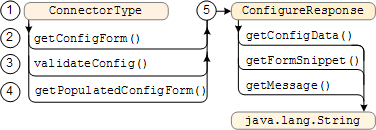
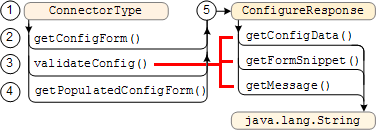
Continuing to add review comments from John.

Changed region(s): [[0.4096, 0.2769, 0.6436, 0.6769]]

diff --git a/devguide/2.4.0/cdg_spioverview.html b/devguide/2.4.0/cdg_spioverview.html
@@ -47,7 +47,7 @@ Posted December 2009</p>
 <li><a href="#pti">Property Interface</a></li>
 </ol>
 </li>
-<li><a href="#Value">Value Interface</a></li>
+<li><a href="#Value">Value Class</a></li>
   <li><a href="#conTypint">ConnectorType Interface and SimpleConnectorType Class</a>
     <ol>
 <li><a href="#cti">ConnectorType Interface</a></li>
@@ -111,7 +111,7 @@ Posted December 2009</p>
     <p>The connector manager  calls the <code>startTraversal</code> method to start acquiring documents from the content management system. The connector manager receives a list of documents from the <code>startTraversal</code> method. </p>
   </li>
   <li>Traverse over the documents in the <code>DocumentList</code>.  
-    <p>The connector manager calls the <code>nextDocument</code> method to get another document.. Each <code>Document</code> returned is fed to the search appliance.  The connector sets the return value of the <code>DocumentList</code> object to instruct the connector manager what to do next. A <code>null</code> return value indicates that traversal is done, An empty return value indicates to set the checkpoint and keep traversing, and documents in the <code>DocumentList</code> indicate to send the documents to the search appliance. </p>
+    <p>The connector manager calls the <code>nextDocument</code> method to get another document.. Each <code>Document</code> returned is fed to the search appliance.  The connector sets the return value of the <code>DocumentList</code> object to instruct the connector manager what to do next. A <code>null</code> return value indicates that traversal is done, An empty return value indicates to set the checkpoint and keep traversing, and documents in the <code>DocumentList</code> indicates to send the documents to the search appliance. </p>
   </li>
   <li>Pauses traversing to perform other tasks.
     <p>The connector sets the checkpoint after every batch of documents. The checkpoint helps the connector remember where within the content management system the traversal was paused, so that the connector may resume at that point in the future.</p>
@@ -158,13 +158,13 @@ Posted December 2009</p>
 <p class="backtotop"><a href="#top">Back to top</a></p>
 
 
-<h2><a name="Value"></a>Value Interface </h2>
+<h2><a name="Value"></a>Value Class </h2>
 <p>The <code>Value</code> objects are used to provide property values from the connector to the connector manager as returned from calls to the <code>Property.nextValue</code> method. </p>
-<p>The <code>Value</code> interface provides factory methods for constructing <code>Value</code> objects for various data types. </p>
+<p>The <code>Value</code> class provides factory methods for constructing <code>Value</code> objects for various data types. </p>
 <p>A connector cannot implement its own <code>Value</code> class or even subclass the one provided  (unlike most of the other interfaces, for which a connector must provide an implementation).</p>
 <p>The methods in the <code>Value</code> class   are as follows:</p>
 <p><img src="images/cdg_value_interface.png" alt="Value interface" width="326" height="219" /></p>
-<p>The <code>Value</code> interface provides conversion methods for numeric and string values. For more information on the <code>Calendar</code> object formats, see <a href="ftp://ftp.rfc-editor.org/in-notes/rfc822.txt">RFC 822</a> and <a href="http://www.w3.org/TR/NOTE-datetime">Date and Time Formats</a>, which describes <acronym title="International Organization for Standardization">ISO</acronym> 8601.</p>
+<p>The <code>Value</code> class provides conversion methods for numeric and string values. For more information on the <code>Calendar</code> object formats, see <a href="ftp://ftp.rfc-editor.org/in-notes/rfc822.txt">RFC 822</a> and <a href="http://www.w3.org/TR/NOTE-datetime">Date and Time Formats</a>, which describes <acronym title="International Organization for Standardization">ISO</acronym> 8601.</p>
 <p class="backtotop"><a href="#top">Back to top</a></p>
 
 <h2><a name="conTypint"></a>ConnectorType Interface and SimpleConnectorType Class </h2>
@@ -176,7 +176,7 @@ Posted December 2009</p>
 <ol>
   <li>Spring Framework creates the <code>ConnectorType</code> object using the parameters in the <code>connectorType.xml</code> file. </li>
   <li>The connector manager calls the <code>getConfigForm</code> method to provide an XHTML configuration form  in which an administrator can specify connector parameter values in the Admin Console. </li>
-  <li>After an administrator fills in the configuration form and clicks <strong>Submit</strong>, the connector manager calls the <code>validateConfig</code> method to verify the form information. The <code>validateConfig</code> method can also call the <code>ConnectorFactory</code> class to instantiate a connector and verify that the connector instance can communicate with the content management system. If validation fails, the <code>validateConfig</code> method adds a message to the configuration form for the administrator to correct the form information. </li>
+  <li>After an administrator fills in the configuration form and clicks <strong>Submit</strong>, the connector manager calls the <code>validateConfig</code> method to verify the form information. The <code>validateConfig</code> method can also call the <code>ConnectorFactory</code> class to instantiate a connector and verify that the connector instance can communicate with the content management system. If validation fails, the <code>validateConfig</code> method adds a message to the configuration form for the administrator to correct the form information. The <code>getConfigData</code>, <code>getFormSnippet</code>, and <code>getMessage</code> methods only work with <code>validateConfig</code> as indicated by the red line in the illustration.</li>
   <li>To change configuration form information, the administrator clicks <strong>Edit</strong> for a connector in the Admin Console and the connector manager calls the <code>getPopulatedConfigForm</code> method to retrieve stored information and create an XHTML form with the information. </li>
   <li>Each method returns a <code>ConfigureResponse</code> object that can contain a configuration form and an optional message to display on the Admin Console if corrections are needed.</li>
 </ol>

diff --git a/devguide/2.4.0/cdg_traversing.html b/devguide/2.4.0/cdg_traversing.html
@@ -16,7 +16,7 @@ Connector manager
 Posted December 2009</p>
 <p>Traversing means acquiring documents from a content management system that the connector manager feeds to a Google Search Appliance. 
 Traversing is analogous to the search appliance concept of crawling.</p>
-<p><strong>Chapters</strong>: <a href="cdg_about.html">About This Guide</a>, <a href="cdg_intro.html">Introduction</a>, <a href="cdg_getstart.html">Getting Started</a>, <a href="cdg_spioverview.html">SPI Overview</a>, <em>Traversing Documents</em>, <br />
+<p><strong>Chapters</strong>: <a href="index.html">Home</a>, <a href="cdg_about.html">About This Guide</a>, <a href="cdg_intro.html">Introduction</a>, <a href="cdg_getstart.html">Getting Started</a>, <a href="cdg_spioverview.html">SPI Overview</a>, <em>Traversing Documents</em>, <br />
 <a href="cdg_authentication.html">Authentication</a>, <a href="cdg_authorization.html">Authorization</a>, <a href="cdg_config.html">Configuration</a>, <a href="cdg_buildcm.html">Appendix A: Building a Debug Connector Manager</a></p>
 <h2>Contents</h2>
 <ol class="toc">
@@ -86,8 +86,8 @@ Traversing is analogous to the search appliance concept of crawling.</p>
 </ol>
 <p>A connector controls traversal by setting the return value of the <code>DocumentList</code> interface:</p>
 <ul>
-  <li><code>null</code> - Stop traversing, all documents are traversed. Wait 5 minutes before asking the content management system for updated documents.</li>
-  <li><code>DocumentList</code> containing zero documents  - Temporarily stop traversing, set a progress checkpoint, and  resume traversing.  </li>
+  <li><code>null</code> - Stop traversing, all documents are traversed. Wait 15 minutes before asking the content management system for updated documents.</li>
+  <li><code>DocumentList</code> containing zero documents  - Set a progress checkpoint and  resume traversing.  </li>
   <li><code>DocumentList</code> (non-empty) - Send documents in the <code>DocumentList</code> to the search appliance. </li>
 </ul>
 <p>For more information on <code>DocumentList</code> return values and document traversing exceptions, see <a href="IteratingOverADocumentList">Iterating Over a Document List</a>.</p>
@@ -115,7 +115,7 @@ Traversing is analogous to the search appliance concept of crawling.</p>
   <li>The <code>resumeTraversal</code> method of the connector instance to resume traversing at the  document indicated by the <code>checkpoint</code> method.</li>
 </ol>
 <h2><a name="BuildingADocumentList"></a>Acquiring Documents</h2>
-<p>The following code example provides a sample <code>TraversalManager</code> implementation. The  code  declares the class, specifies 500 documents for the fake content management system, and  sets the batch hint so that the connector can traverse up to 100 documents a minute from the content management system.</p>
+<p>The following code example provides a sample <code>TraversalManager</code> implementation. The  code  declares the class, specifies 500 documents for the fake content management system.</p>
 <pre>
 public class MockTraversalManager implements TraversalManager {
   // The maximum number of documents in our fake repository.
@@ -173,7 +173,7 @@ calls when it's ready to acquire more documents.</p>
   </tr>
   <tr>
     <td><code>null</code></td>
-    <td>Informs the connector manager that there are no new documents in the content management system to traverse. The connector manager then waits 5 minutes before calling the <code>resumeTraversal</code> method to check the content management system for new documents to traverse.</td>
+    <td>Informs the connector manager that there are no new documents in the content management system to traverse. The connector manager then waits 15 minutes before calling the <code>resumeTraversal</code> method to check the content management system for new documents to traverse.</td>
   </tr>
   <tr>
     <td>Zero documents (empty) </td>
@@ -190,7 +190,7 @@ calls when it's ready to acquire more documents.</p>
 <p>The connector manager may not acquire all documents from the content management system. The connector manager may interrupt the traversal of documents, call the <code>checkpoint</code> method, and start another task. When the connector manager is again ready to start traversing the content management system, the connector manager calls the <code>resumeTraversal</code> method and passes  the <code>checkpoint</code> method to provide the current position. </p>
 <p>Connectors have these exceptions for documents:</p>
 <ul>
-  <li><code>RepositoryException</code>. A transient error occurred while traversing a document, such as a lost connection to the content management system. The connector needs to reread the document. The connector manager waits 5 minutes before resuming traversal. </li>
+  <li><code>RepositoryException</code>. A transient error occurred while traversing a document, such as a lost connection to the content management system. The connector needs to reread the document. The connector manager waits 15 minutes and retries the same batch before resuming traversal. </li>
   <li><code>RepositoryDocumentException</code>. A document has an error and cannot be retrieved. Skip the document.</li>
   <li><code>OutofMemoryError</code>. A document is too large to be traversed. Skip the document. </li>
 </ul>

diff --git a/devguide/2.4.0/cdg_getstart.html b/devguide/2.4.0/cdg_getstart.html
@@ -149,7 +149,7 @@ Windows XP:
 <li>Right click <strong>My Computer</strong> and click <strong>Properties</strong>.</li>
 <li> Click the <strong>Advanced</strong> tab and click <strong>Environment Variables</strong>. The Environment Variables menu appears. </li>
 <li>In <strong>System variables</strong>, click <strong>New</strong>. The New System Variable menu appears.</li>
-<li>Type <code>CATALINA_HOME</code> for the <strong>Variable name</strong> and the enter the path to the Tomcat download folder, for example, <code>c:\apache-tomcat-6.0.20\</code> as the <strong>Variable value</strong>. </li>
+<li>Type <code>CATALINA_HOME</code> for the <strong>Variable name</strong> and the enter the path to the Tomcat download folder, for example, <code>c:\apache-tomcat-6.0.18\</code> as the <strong>Variable value</strong>. </li>
 <li>Click <strong>OK</strong> to complete the variable, <strong>OK</strong> to exit  Environment Variables, and <strong>OK</strong> to exit System Properties.</li>
 </ol>
 <br>Linux and Macintosh:
@@ -194,11 +194,11 @@ Or from your <code>~/.bashrc</code> file: <br />
       </tr>
       <tr>
         <td>Linux or Macintosh</td>
-        <td><a href="http://google-enterprise-connector-manager.googlecode.com/files/connector-manager-2.0.0.tar.gz">connector-manager-2.0.0.tar.gz</a></td>
+        <td><a href="http://google-enterprise-connector-manager.googlecode.com/files/connector-manager-2.4.0.tar.gz">connector-manager-2.4.0.tar.gz</a></td>
       </tr>
       <tr>
         <td>Windows</td>
-        <td><a href="http://google-enterprise-connector-manager.googlecode.com/files/connector-manager-2.0.0.zip">connector-manager-2.0.0.zip</a></td>
+        <td><a href="http://google-enterprise-connector-manager.googlecode.com/files/connector-manager-2.4.0.zip">connector-manager-2.4.0.zip</a></td>
       </tr>
     </table>
   </li>
@@ -212,7 +212,7 @@ Or from your <code>~/.bashrc</code> file: <br />
 <p>The instructions that follow are  for a Windows system, if you are using a Linux or Macintosh, refer to your operating system documentation for how to open a <code>.tar</code> file, and how to extract, copy, and rename files. </p>
 <p>To extract the <code>connector-spi.jar</code> file: </p>
 <ol>
-  <li>Open the folder labeled <code>connector-manager-2.0.0</code>. </li>
+  <li>Open the folder labeled <code>connector-manager-2.4.0</code>. </li>
   <li>Copy or extract the <code>connector-manager.war</code> file and store it in a folder on your computer. </li>
   <li>Copy the <code>connector-manager.war</code> file so that you have two copies of the same file.  </li>
   <li>Rename one of the copies of the <code>connector-manager.war</code> file to be <code>connector-manager.zip</code>. </li>
@@ -378,7 +378,7 @@ Wait approximately 30 seconds to ensure that Tomcat stops. You can check that th
     </ul>
   </li>
   <li>Test Tomcat. 
-    <p>After Tomcat starts, verify that the server is running by clicking this link: <a href="http://127.0.0.1:8080/connector-manager/testConnectivity">http://127.0.0.1:8080/connector-manager/testConnectivity</a> or by typing this address into a browser. This link verifies that the connector manager is running and displays the connector manager version, Java version, and the operating system version.</p>
+    <p>After Tomcat starts, verify that the server is running by clicking this link: <a href="http://127.0.0.1:8080/connector-manager/testConnectivity">http://127.0.0.1:8080/connector-manager/testConnectivity</a> or by typing this address into a browser. This link verifies that the connector manager is running and displays the connector manager version, Java version,  the operating system version, and the IP address of the search appliance.</p>
   </li>
   </ol>
 
@@ -629,10 +629,10 @@ private DocumentList traverse(String checkpoint) {
     return null;  // No more documents.
   }
   Calendar cal = Calendar.getInstance();
-  cal.setTimeInMillis(10 * 1000);
   List&lt;Document&gt; docList = new ArrayList&lt;Document&gt;(batchHint);
   int endDocId = Math.min(startDocId + batchHint - 1, MAX_DOCID);
   for (int i = startDocId; i &lt;= endDocId; i++) {
+    cal.setTimeInMillis(10 * 1000); // Each doc has the current timestamp
     Map&lt;String, List&lt;Value&gt;&gt;properties;
     properties = new HashMap&lt;String, List&lt;Value&gt;&gt;();
     properties.put(SpiConstants.PROPNAME_DOCID,
@@ -691,8 +691,7 @@ class HelloWorldDocumentList implements DocumentList {
   public AuthenticationResponse authenticate(AuthenticationIdentity id) {
     return new AuthenticationResponse(true, null);
   }
-}
-</pre>
+}</pre>
 
 <a id="HloAuthZMgrClass"
  name="HloAuthZMgrClass"></a>

diff --git a/devguide/2.4.0/cdg_intro.html b/devguide/2.4.0/cdg_intro.html
@@ -232,7 +232,7 @@ describe connector components. </p>
 <ul>
   <li><code>connectorType.xml</code>,  <code>connectorInstance.xml</code>, and <code>connectorDefaults.xml</code> are Java Bean definition files.</li>
 <li><code>connectorType.xml</code> and <code>connectorDefaults.xml</code> are invariant across   all connector instances of that type, such that all connector   instances derive information from a common <code>connectorType.xml</code> and   <code>connectorDefaults.xml</code>.</li>
-<li><code>connectorInstance.xml</code> and <code><em>ConnectorName</em>.properties</code> file may contain   configuration information that is unique to each connector instance.   This information  distinguishes one connector instance   from another.</li>
+<li><code>connectorInstance.xml</code> and <em>ConnectorName</em><code>.properties</code> file may contain   configuration information that is unique to each connector instance.   This information  distinguishes one connector instance   from another.</li>
 </ul>
 
 <a name="SpringFrameworkInstantiatesaConnector" id="SpringFrameworkInstantiatesaConnector"></a>
@@ -269,7 +269,7 @@ to provide properties to the connector manager.
   For example, a properties file contains a user name and password, the name of a repository,  
   the basis of the display URL, and other values. The properties file contains the values  
   that correspond to each field in the configuration form, plus  additional values used by the connector manager.</p>
-<p>Spring Framework injects the properties file, the defaults information (if present), and the information in the <code>connectorInstance.xml</code> file into the bean, which Spring Framework uses to create a connector instance. </p>
+<p>Spring Framework injects the properties, the defaults  (if present), and the information in the <code>connectorInstance.xml</code> file into the bean, which Spring Framework uses to create a connector instance. </p>
 
 <p>Spring Framework:</p> 
 <ol>
@@ -317,7 +317,7 @@ to provide properties to the connector manager.
     <li>The connector manager  routes the request to the proper connector type. </li>
     <li>The connector manager  calls the <code>ConnectorType.validateConfig</code> method to ensure that all required information is present. The <code>validateConfig</code> method can also test a connection to the content management system using the <code>ConnectorFactory</code> class to call Spring Framework to create a connector instance to verify that the connector can communicate with the content management system. A connector can also change properties as needed in the <code>validateConfig</code> method. </li>
     <li>If the <code>validateConfig</code> method fails, the connector returns a <code>ConfigureResponse</code> object that contains the XHTML form and a message to inform the administrator what corrections to make in the form. After the administrator fills in the information, this sequence repeats until the administrator specifies correct information.</li>
-    <li>If the <code>validateConfig</code> method succeeds, the connector manager stores property information in the <code><em>connector_name</em>.properties</code> file. The connector manager also creates a connector instance and sends acknowledgment to the search appliance. </li>
+    <li>If the <code>validateConfig</code> method succeeds, the connector manager stores property information in the <em>ConnectorName</em><code>.properties</code> file. The connector manager also creates a connector instance and sends acknowledgment to the search appliance. </li>
     <li>The search appliance displays the connector entry in the Admin Console at  <strong>Connector Administration</strong> &gt; <strong>Connectors</strong> &gt; <strong>List of Connectors</strong>.</li>
   </ol>
   <p class="backtotop"><a href="#top">Back to top</a></p>

diff --git a/devguide/2.4.0/cdg_authorization.html b/devguide/2.4.0/cdg_authorization.html
@@ -16,7 +16,7 @@ Posted December 2009</p>
 <p>Authorization  determines if a user can view controlled-access documents in a content management system. After a user is successfully authenticated, the connector determines what documents  the content management system authorizes the user to view. For connector terminology definitions, see the <a href="http://code.google.com/apis/searchappliance/documentation/62/reference/glossary.html">Google Enterprise Glossary</a>.  For information on controlled-access content, see <a href="http://code.google.com/apis/searchappliance/documentation/access.html">Managing Search for Controlled-Access Content</a>. </p>
 <p>This section describes how to authorize users for viewing secure documents in a connector. The <a href="http://google-enterprise-connector-manager.googlecode.com/svn/docs/javadoc/2.0.0/index.html">Javadoc</a> for the SPI is available in open source. For additional information, see <a href="cdg_intro.html#TraversalSecurity">Understanding Authentication and Authorization</a>.</p>
 
-<p><strong>Chapters</strong>: <a href="cdg_about.html">About This Guide</a>, <a href="cdg_intro.html">Introduction</a>, <a href="cdg_getstart.html">Getting Started</a>, <a href="cdg_spioverview.html">SPI Overview</a>, <a href="cdg_traversing.html">Traversing Documents</a>, <br />
+<p><strong>Chapters</strong>: <a href="index.html">Home</a>, <a href="cdg_about.html">About This Guide</a>, <a href="cdg_intro.html">Introduction</a>, <a href="cdg_getstart.html">Getting Started</a>, <a href="cdg_spioverview.html">SPI Overview</a>, <a href="cdg_traversing.html">Traversing Documents</a>, <br />
 <a href="cdg_authentication.html">Authentication</a>, <em>Authorization</em>, <a href="cdg_config.html">Configuration</a>, <a href="cdg_buildcm.html">Appendix A: Building a Debug Connector Manager</a></p>
 
 <h2>Contents</h2>

diff --git a/devguide/2.4.0/cdg_buildcm.html b/devguide/2.4.0/cdg_buildcm.html
@@ -15,7 +15,7 @@ Connector manager version 2.4.0<br />
 Posted December 2009</p>
 <p>This section describes how to build a debug connector manager and to build Javadoc. This section is useful if you need to extend the functionality of the connector manager, or want to use the test connectors supplied with the connector manager. You may find that the information in the <a href="cdg_getstart.html">Getting Started</a> section provides enough background information to get you started and to test connectors. </p><p>For connector terminology definitions, see the <a href="http://code.google.com/apis/searchappliance/documentation/62/reference/glossary.html">Google Enterprise Glossary</a>. </p>
 
-<p><strong>Chapters</strong>: <a href="cdg_about.html">About This Guide</a>, <a href="cdg_intro.html">Introduction</a>, <a href="cdg_getstart.html">Getting Started</a>, <a href="cdg_spioverview.html">SPI Overview</a>, <a href="cdg_traversing.html">Traversing Documents</a>, <br />
+<p><strong>Chapters</strong>: <a href="index.html">Home</a>, <a href="cdg_about.html">About This Guide</a>, <a href="cdg_intro.html">Introduction</a>, <a href="cdg_getstart.html">Getting Started</a>, <a href="cdg_spioverview.html">SPI Overview</a>, <a href="cdg_traversing.html">Traversing Documents</a>, <br />
 <a href="cdg_authentication.html">Authentication</a>, <a href="cdg_authorization.html">Authorization</a>, <a href="cdg_config.html">Configuration</a>, <em>Appendix A: Building a Debug Connector Manager</em></p>
 
 <h2>Contents</h2>
@@ -174,7 +174,7 @@ ant spi-javadoc
 </li>
 <li>Change directory to the <code>spi</code> folder using the following command: 
 <pre>
-cd doc/javadoc/2.0/spi
+cd doc/javadoc/2.0.0/spi
 </pre>
 </li>
 <li>Double-click the <code>index.html</code> file to view the Javadocs. </li>

diff --git a/devguide/2.4.0/cdg_config.html b/devguide/2.4.0/cdg_config.html
@@ -16,7 +16,7 @@ Posted December 2009</p>
 <p>This section describes how a connector provides a configuration form to the Admin Console, how connectors are instantiated, and about the properties file that contains information from the configuration form. The connector manager uses the properties file information when instantiating a connector. </p>
 <p>This section helps you  create  a configuration form for the Admin Console, verify that required information is filled in, and if necessary return the form to the Admin Console.   The <a href="http://google-enterprise-connector-manager.googlecode.com/svn/docs/javadoc/2.0.0/index.html">Javadoc</a> for the <acronym title="Service Provider Interface">SPI</acronym> is available in open source. For connector terminology definitions, see the <a href="http://code.google.com/apis/searchappliance/documentation/62/reference/glossary.html">Google Enterprise Glossary</a>. </p>
 
-<p><strong>Chapters</strong>: <a href="cdg_about.html">About This Guide</a>, <a href="cdg_intro.html">Introduction</a>, <a href="cdg_getstart.html">Getting Started</a>, <a href="cdg_spioverview.html">SPI Overview</a>, <a href="cdg_traversing.html">Traversing Documents</a>, <br />
+<p><strong>Chapters</strong>: <a href="index.html">Home</a>, <a href="cdg_about.html">About This Guide</a>, <a href="cdg_intro.html">Introduction</a>, <a href="cdg_getstart.html">Getting Started</a>, <a href="cdg_spioverview.html">SPI Overview</a>, <a href="cdg_traversing.html">Traversing Documents</a>, <br />
 <a href="cdg_authentication.html">Authentication</a>, <a href="cdg_authorization.html">Authorization</a>, <em>Configuration</em>, <a href="cdg_buildcm.html">Appendix A: Building a Debug Connector Manager</a></p>
 
 <h2>Contents</h2>

diff --git a/devguide/2.4.0/cdg_authentication.html b/devguide/2.4.0/cdg_authentication.html
@@ -16,7 +16,7 @@ Posted December 2009</p>
 <p>The connector manager uses authentication when a user searches for secured access documents. The content management system prompts users for their user name and password before granting access to view the documents. </p>
 <p>This section describes how to authenticate  users to view secure documents. For connector terminology definitions, see the <a href="http://code.google.com/apis/searchappliance/documentation/62/reference/glossary.html">Google Enterprise Glossary</a>. The <a href="http://google-enterprise-connector-manager.googlecode.com/svn/docs/javadoc/2.0.0/index.html">Javadoc</a> for the SPI is available in open source. For additional information, see <a href="cdg_intro.html#TraversalSecurity">Understanding Authentication and Authorization</a>.</p>
 
-<p><strong>Chapters</strong>: <a href="cdg_about.html">About This Guide</a>, <a href="cdg_intro.html">Introduction</a>, <a href="cdg_getstart.html">Getting Started</a>, <a href="cdg_spioverview.html">SPI Overview</a>, <a href="cdg_traversing.html">Traversing Documents</a>, <br />
+<p><strong>Chapters</strong>: <a href="index.html">Home</a>, <a href="cdg_about.html">About This Guide</a>, <a href="cdg_intro.html">Introduction</a>, <a href="cdg_getstart.html">Getting Started</a>, <a href="cdg_spioverview.html">SPI Overview</a>, <a href="cdg_traversing.html">Traversing Documents</a>, <br />
 <em>Authentication</em>, <a href="cdg_authorization.html">Authorization</a>, <a href="cdg_config.html">Configuration</a>, <a href="cdg_buildcm.html">Appendix A: Building a Debug Connector Manager</a></p>
 
 <h2>Contents</h2>

diff --git a/devguide/2.4.0/cdg_about.html b/devguide/2.4.0/cdg_about.html
@@ -16,7 +16,7 @@ Posted December 2009</p>
 <p>This guide helps you  write a Java application that enables a Google Search Appliance to index the documents in a content management system. Use this guide with the <a href="http://google-enterprise-connector-manager.googlecode.com/svn/docs/javadoc/2.0.0/index.html">Javadoc</a> reference, which describes the Java interfaces for coding a connector. </p>
 <p>This guide provides the <a href="cdg_getstart.html">Getting Started</a> tutorial  after the concepts in the <a href="cdg_intro.html">Introduction</a>. This approach lets you  create a connector using an integrated development environment (IDE) and then test the connector with a Google Search Appliance. The rest of the guide  helps you to build on your knowledge. </p>
 
-<p><strong>Chapters</strong>: <em>About This Guide</em>, <a href="cdg_intro.html">Introduction</a>, <a href="cdg_getstart.html">Getting Started</a>, <a href="cdg_spioverview.html">SPI Overview</a>, <a href="cdg_traversing.html">Traversing Documents</a>, <br />
+<p><strong>Chapters</strong>: <a href="index.html">Home</a>, <em>About This Guide</em>, <a href="cdg_intro.html">Introduction</a>, <a href="cdg_getstart.html">Getting Started</a>, <a href="cdg_spioverview.html">SPI Overview</a>, <a href="cdg_traversing.html">Traversing Documents</a>, <br />
 <a href="cdg_authentication.html">Authentication</a>, <a href="cdg_authorization.html">Authorization</a>, <a href="cdg_config.html">Configuration</a>, <a href="cdg_buildcm.html">Appendix A: Building a Debug Connector Manager</a></p>
 
 <h2>Contents</h2>
